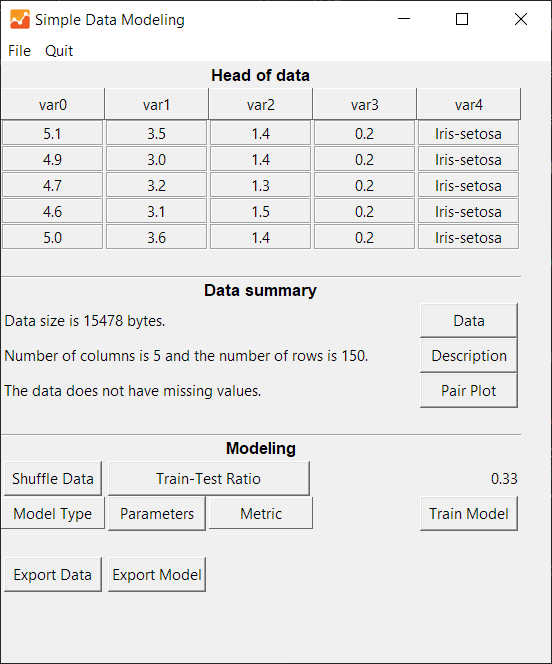
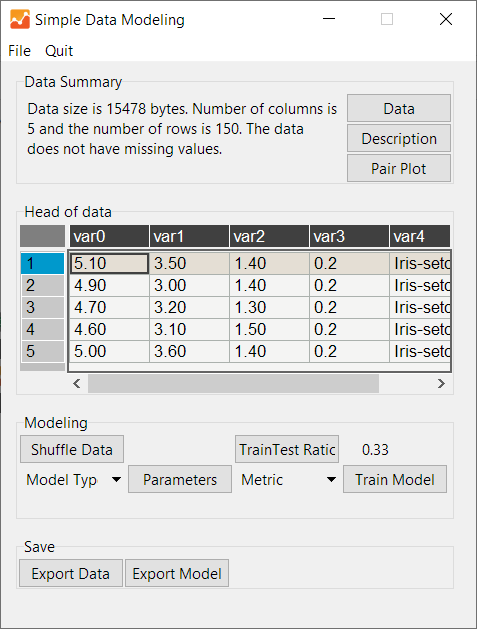
Better usage of tkinter.ttk

diff --git a/main.py b/main.py
@@ -4,7 +4,9 @@ from tkinter import *
 from tkinter import filedialog
 from tkinter.messagebox import showinfo, showerror
 import tkinter.ttk as ttk
-from tkinter.ttk import Progressbar, Separator, LabelFrame
+from tkinter.ttk import (
+    Button, Label, Menubutton, Progressbar, Separator, LabelFrame
+)
 
 # sklearn imports
 import sklearn
@@ -42,7 +44,6 @@ __version__ = "0.0.1"
 
 """
     TODO
-    - fix handeling of tuples as model parameters (see eg. for NNs)
     - support for categorical data: use scikit ColumnTransfromer!
     - more models
     - real progressbars
@@ -171,18 +172,18 @@ class MainWindow(Frame):
         )
         Button(model_frame, text="Shuffle Data", width=12, command=self.shuffle_data) \
                .grid(row=0, column=0, columnspan=1)
-        Button(model_frame, text="Train-Test Ratio", width=24, command=self.set_traintest) \
-               .grid(row=0, column=1, columnspan=2)
+        Button(model_frame, text="TrainTest Ratio", width=12, command=self.set_traintest) \
+               .grid(row=0, column=2, columnspan=1)
         Label(model_frame, textvariable=self.train_test_ratio_str) \
                .grid(row=0, column=3, columnspan=1, sticky="E")
 
         # model selection
-        self.model_btn = Menubutton(model_frame, text="Model Type", width=12, relief='raised')
+        self.model_btn = Menubutton(model_frame, text="Model Type", width=9)
         self.set_model(self.model_btn)
         self.model_btn.grid(row=1, column=0, columnspan=1)
         Button(model_frame, text="Parameters", width=12, command=self.set_model_parameters) \
                .grid(row=1, column=1, columnspan=1)
-        self.metric_btn = Menubutton(model_frame, text="Metric", width=12, relief='raised')
+        self.metric_btn = Menubutton(model_frame, text="Metric", width=9)
         self.set_metric(self.metric_btn)
         self.metric_btn.grid(row=1, column=2, columnspan=1)
 
@@ -490,29 +491,32 @@ class MainWindow(Frame):
         class popupWindow(object):
             def __init__(self, master):
                 top = self.top = Toplevel(master)
-                top.title("")
+                top.title("Parameters")
                 top.attributes("-topmost", True)
-                width = str(27 * (len(model_dict) + 2))
-                top.geometry("350x" + width)
+                width = str(25 * (len(model_dict) + 4))
+                top.geometry("300x" + width)
                 top.grid()
                 top.resizable(0, 0)
-                Label(top, text='Parameters of ' + model_name) \
-                    .grid(row=0, column=0, columnspan=2)
+
+                frame = LabelFrame(top, text=model_name, relief=RIDGE, width=260)
+                frame.grid(row=0, column=0, columnspan=2, sticky="EWNS", padx=15, pady=15)
 
                 self.values = list()
                 line = 1
                 for k, v in model_dict.items():
-                    Label(top, text=k).grid(row=line, column=0, columnspan=1, sticky='W')
-                    e = Entry(top)
+                    Label(frame, text=k, width=20) \
+                        .grid(row=line, column=0, columnspan=1, sticky='W')
+                    e = Entry(frame, width=10)
                     e.insert(END, str(v))
-                    e.grid(row=line, column=1, columnspan=1)
+                    e.grid(row=line, column=1, columnspan=1, sticky='E')
                     self.values.append(e)
                     line += 1
 
-                Button(top, text='  Help  ', command=self.help) \
-                    .grid(row=line+2, column=0, columnspan=1, sticky='W')
-                Button(top, text='   Ok   ', command=self.cleanup) \
-                    .grid(row=line+2, column=1, columnspan=1, sticky='E')
+                Label(frame, text="").grid(row=line+2, column=0)
+                Button(frame, text='  Help  ', command=self.help) \
+                    .grid(row=line+3, column=0, columnspan=1, sticky='W')
+                Button(frame, text='   Ok   ', command=self.cleanup) \
+                    .grid(row=line+3, column=1, columnspan=1, sticky='E')
                 top.bind('<Return>', self.cleanup)
             def cleanup(self, event=None):
                 for i, k in enumerate(model_dict.keys()):
@@ -622,7 +626,8 @@ class MainWindow(Frame):
                 top.attributes("-topmost", True)
                 top.geometry('550x220')
                 top.title('Data Description')
-                self.table = pt = Table(top, dataframe=data)
+                self.table = pt = Table(top, dataframe=data, editable=False,
+                                        enable_menus=False)
                 pt.show()
                 return
 
